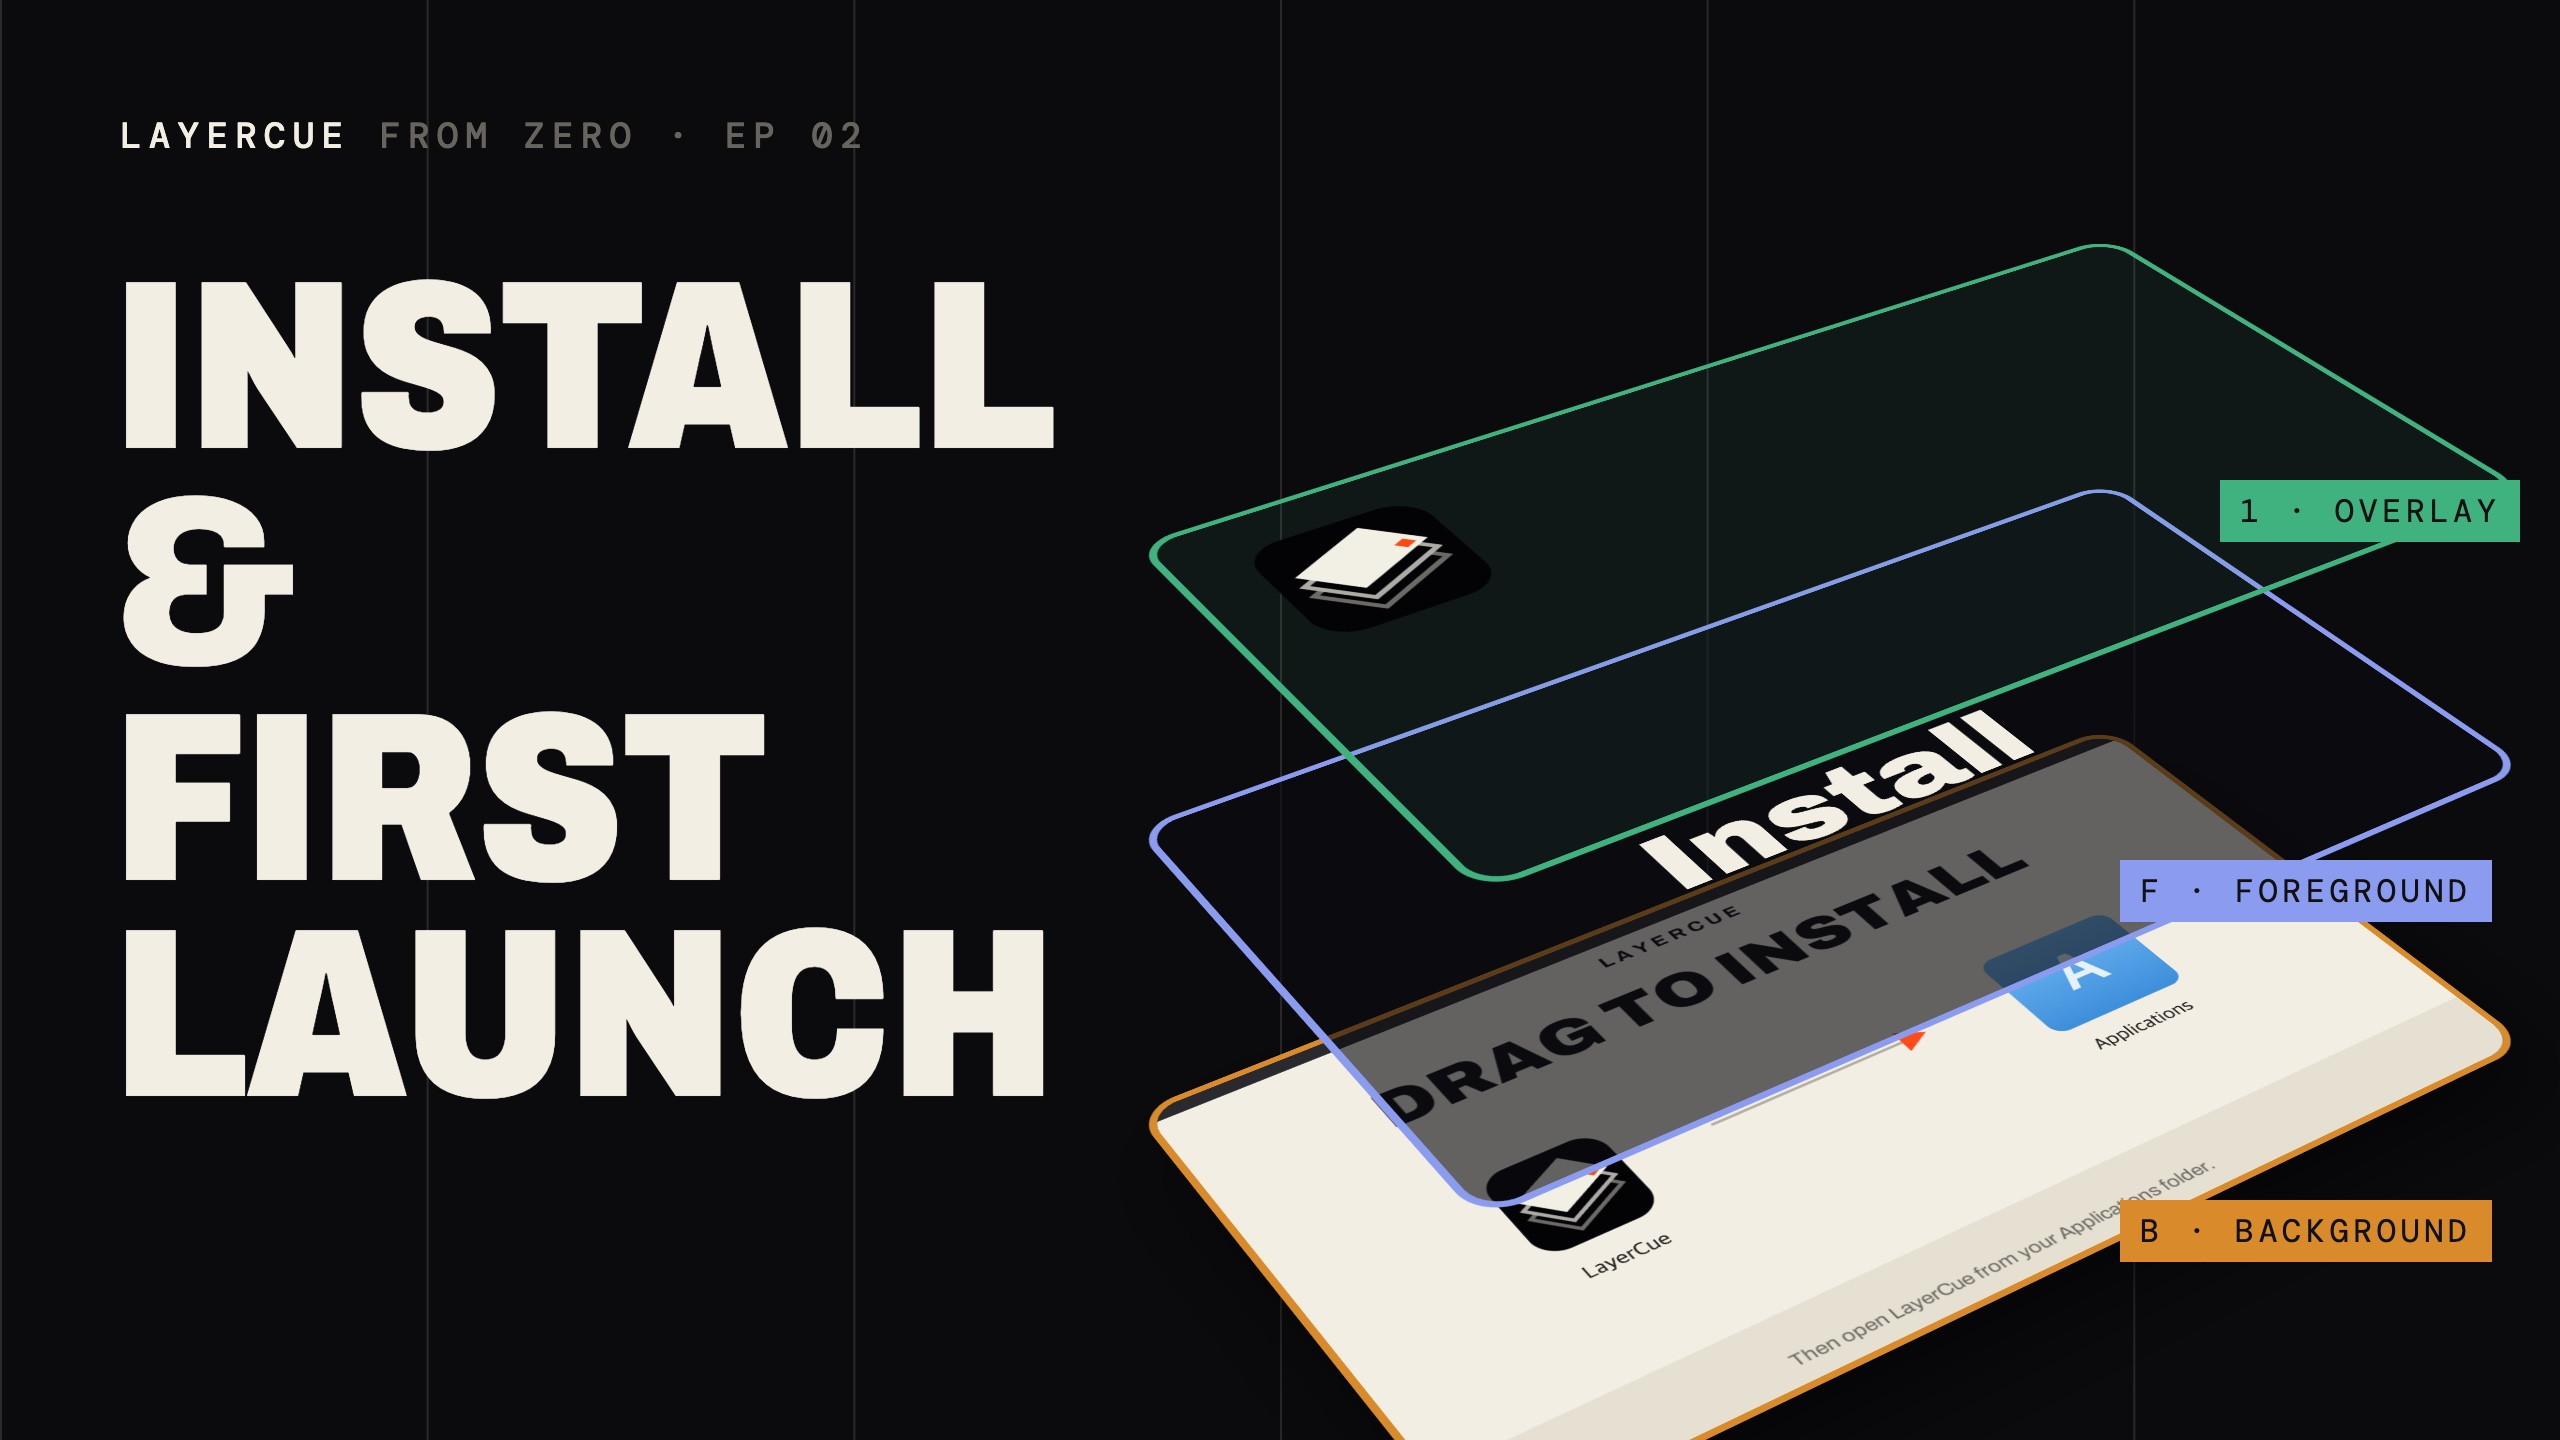
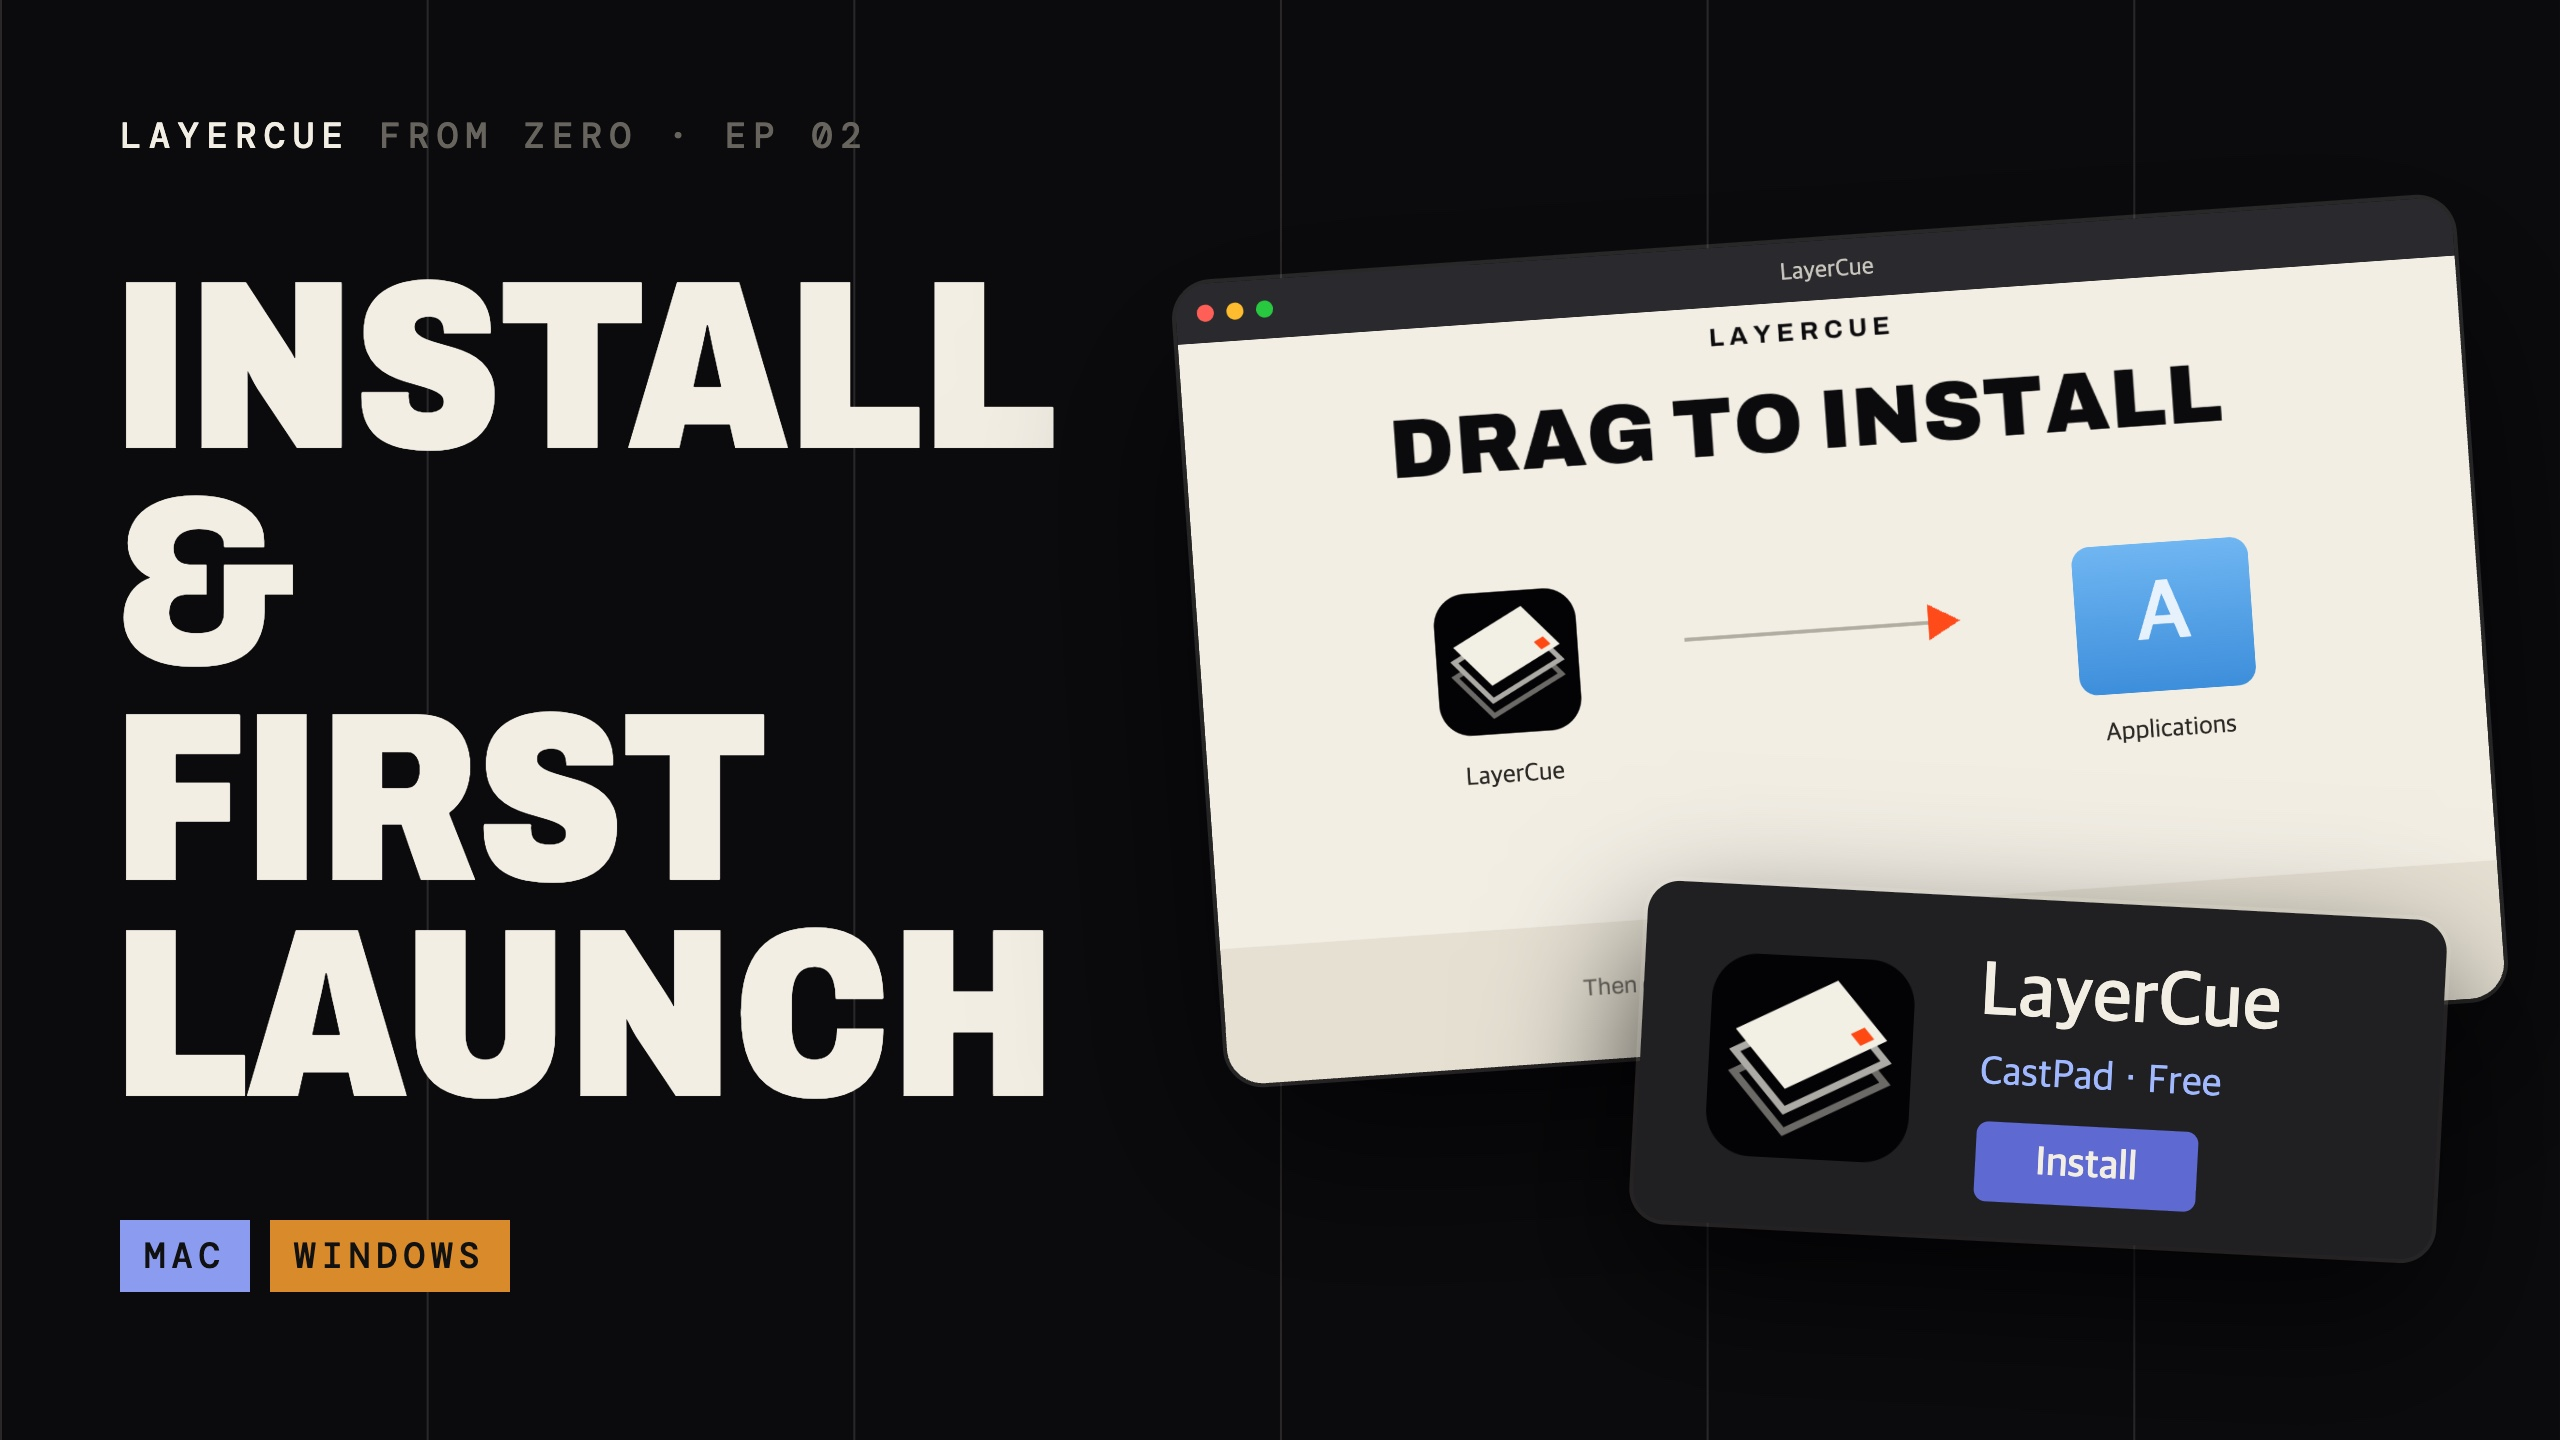
Ep 2 thumbnail: install-specific design (DMG window + Store card); layers style stays Ep 1 only

diff --git a/video/thumbs.html b/video/thumbs.html
@@ -35,6 +35,17 @@
   #C .lbl { position: absolute; background: var(--cream); color: var(--void); padding: 18px 26px 20px; box-shadow: 0 20px 50px rgba(0,0,0,.6); }
   #C .lbl b { display: block; font-weight: 900; font-stretch: 84%; font-size: 92px; text-transform: uppercase; line-height: .9; }
   #C .lbl small { display: block; font-family: var(--mono); font-size: 22px; margin-top: 10px; color: #3C3A35; }
+  /* D — 설치 편: 맥 DMG 창과 윈도우 스토어 카드를 겹쳐 띄운다 */
+  #D .win { position: absolute; left: 600px; top: 120px; width: 640px; border-radius: 18px; overflow: hidden; transform: rotate(-4deg); box-shadow: 0 0 0 2px var(--hair), 0 40px 90px rgba(0,0,0,.7); }
+  #D .win img { width: 100%; display: block; }
+  #D .store { position: absolute; left: 820px; top: 450px; width: 400px; height: 170px; border-radius: 16px; background: #202022; transform: rotate(3deg);
+              box-shadow: 0 0 0 2px var(--hair), 0 30px 70px rgba(0,0,0,.75); }
+  #D .store img { position: absolute; left: 22px; top: 22px; width: 126px; height: 126px; }
+  #D .store .nm { position: absolute; left: 168px; top: 26px; font-family: 'Segoe UI', -apple-system, sans-serif; font-weight: 600; font-size: 38px; }
+  #D .store .pub { position: absolute; left: 170px; top: 76px; font-family: 'Segoe UI', -apple-system, sans-serif; font-size: 20px; color: #9FB8FF; }
+  #D .store .btn { position: absolute; left: 170px; top: 112px; padding: 8px 30px; border-radius: 6px; background: #5E6AD2; font-family: 'Segoe UI', -apple-system, sans-serif; font-weight: 600; font-size: 20px; }
+  #D .os { position: absolute; display: flex; gap: 10px; }
+  #D .os span { font-family: var(--mono); font-weight: 500; font-size: 18px; letter-spacing: .16em; padding: 6px 12px; color: #111; }
 </style>
 <div id="A" class="t"><div class="grid"></div>
   <div class="mic" style="left:60px;top:56px"><b>LayerCue</b> from zero · ep <span class="ep"></span></div>
@@ -55,6 +66,13 @@
   <div class="lbl" style="left:380px;top:230px"><b class="ttl2"></b><small class="sub"></small></div>
   <div class="mic" style="left:380px;top:180px;color:var(--cream)"><b>LayerCue</b> from zero · ep <span class="ep"></span></div>
 </div>
+<div id="D" class="t"><div class="grid"></div>
+  <div class="mic" style="left:60px;top:56px"><b>LayerCue</b> from zero · ep <span class="ep"></span></div>
+  <div class="ttl" style="left:56px;top:130px;font-size:120px;width:560px"></div>
+  <div class="os" style="left:60px;top:610px"><span style="background:var(--fg-lit)">MAC</span><span style="background:var(--bg-lit)">WINDOWS</span></div>
+  <div class="win"><img class="img"></div>
+  <div class="store"><img class="icon"><div class="nm">LayerCue</div><div class="pub">CastPad · Free</div><div class="btn">Install</div></div>
+</div>
 <script>
 const Q = new URLSearchParams(location.search);
 document.querySelectorAll('.ttl, .ttl2').forEach(e => e.innerHTML = Q.get('title') || 'Meet the<br>main window');
@@ -63,6 +81,7 @@ document.querySelectorAll('.ep, .num').forEach(e => e.textContent = Q.get('ep') 
 document.querySelectorAll('.img').forEach(e => e.src = Q.get('img'));
 document.querySelectorAll('.ui').forEach(e => e.src = Q.get('ui'));
 if (Q.get("top")) { document.querySelectorAll(".topimg").forEach(e => { e.src = Q.get("top"); e.style.display = "block"; }); document.querySelectorAll(".bar").forEach(e => e.style.display = "none"); }
+document.querySelectorAll(".icon").forEach(e => e.src = Q.get("icon") || "");
 document.querySelectorAll(".word2").forEach(e => e.textContent = Q.get("word") || "Welcome");
 window.__ready = true;
 </script>
